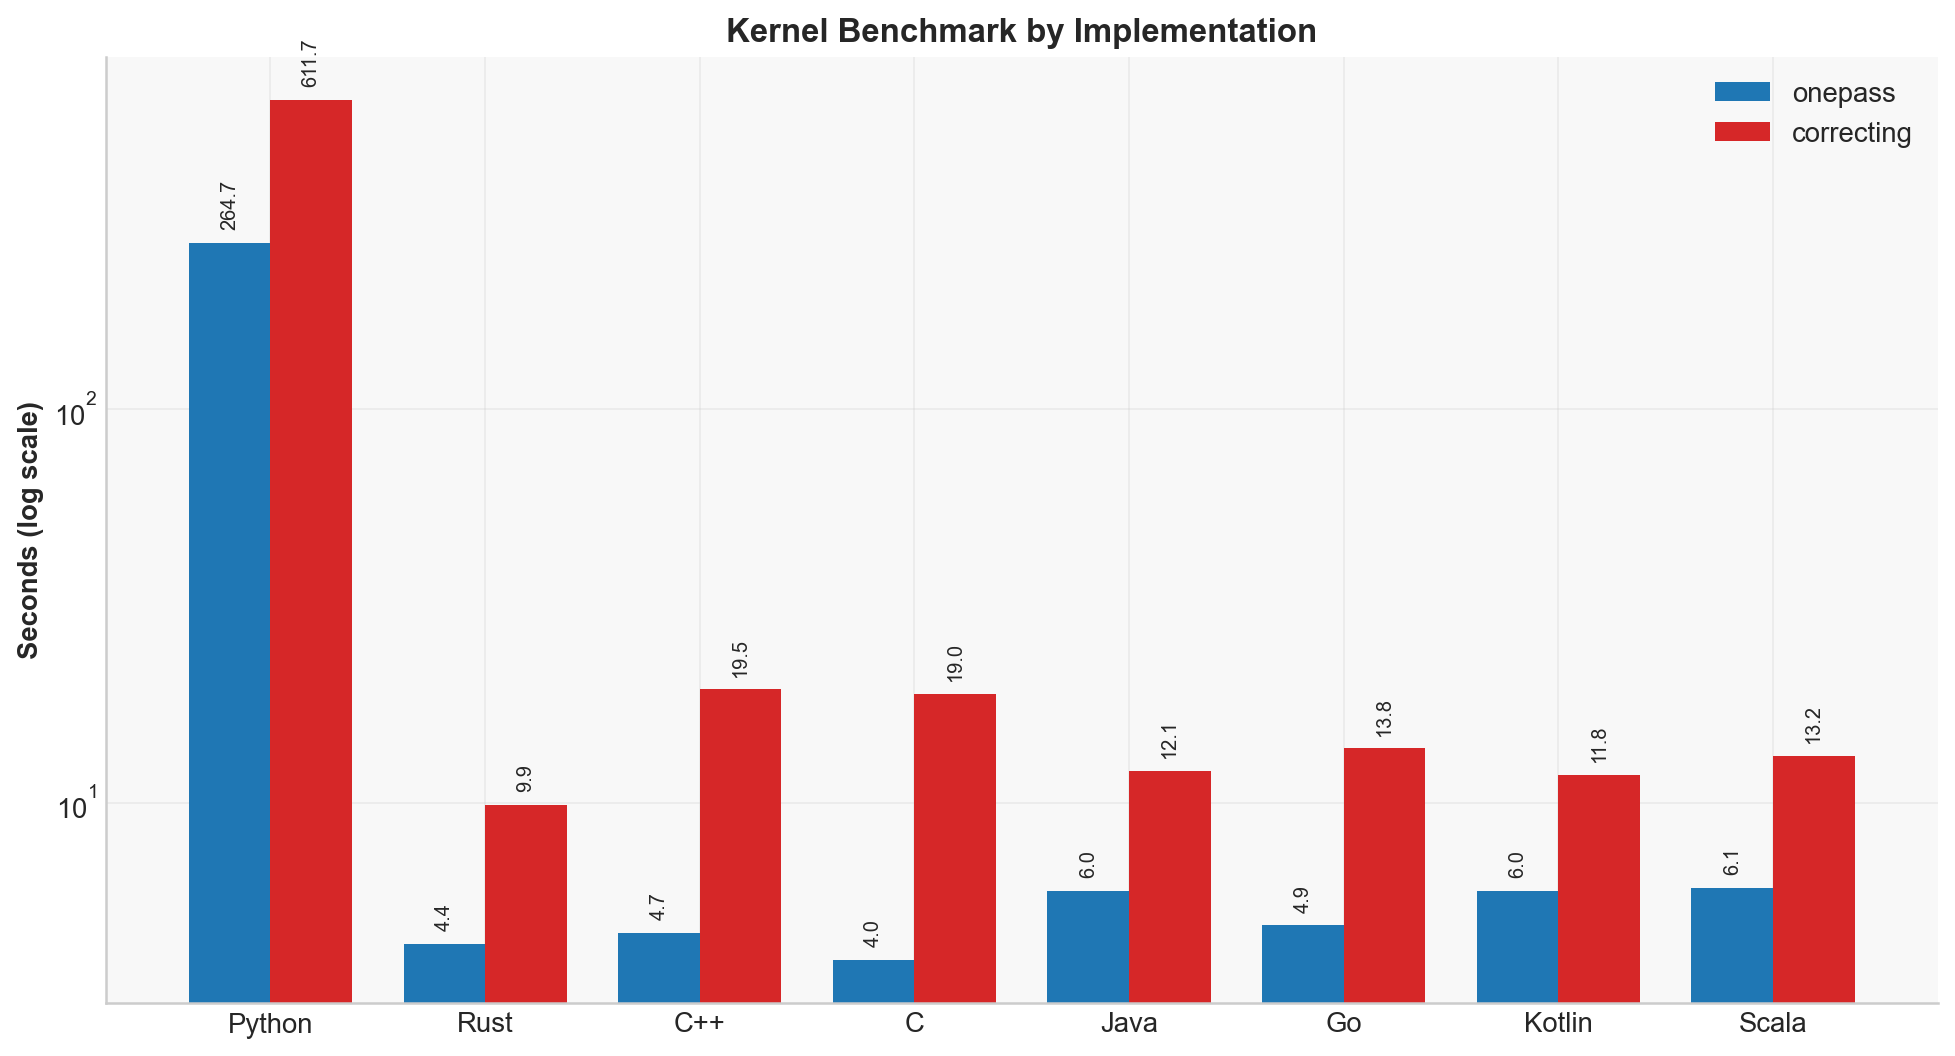
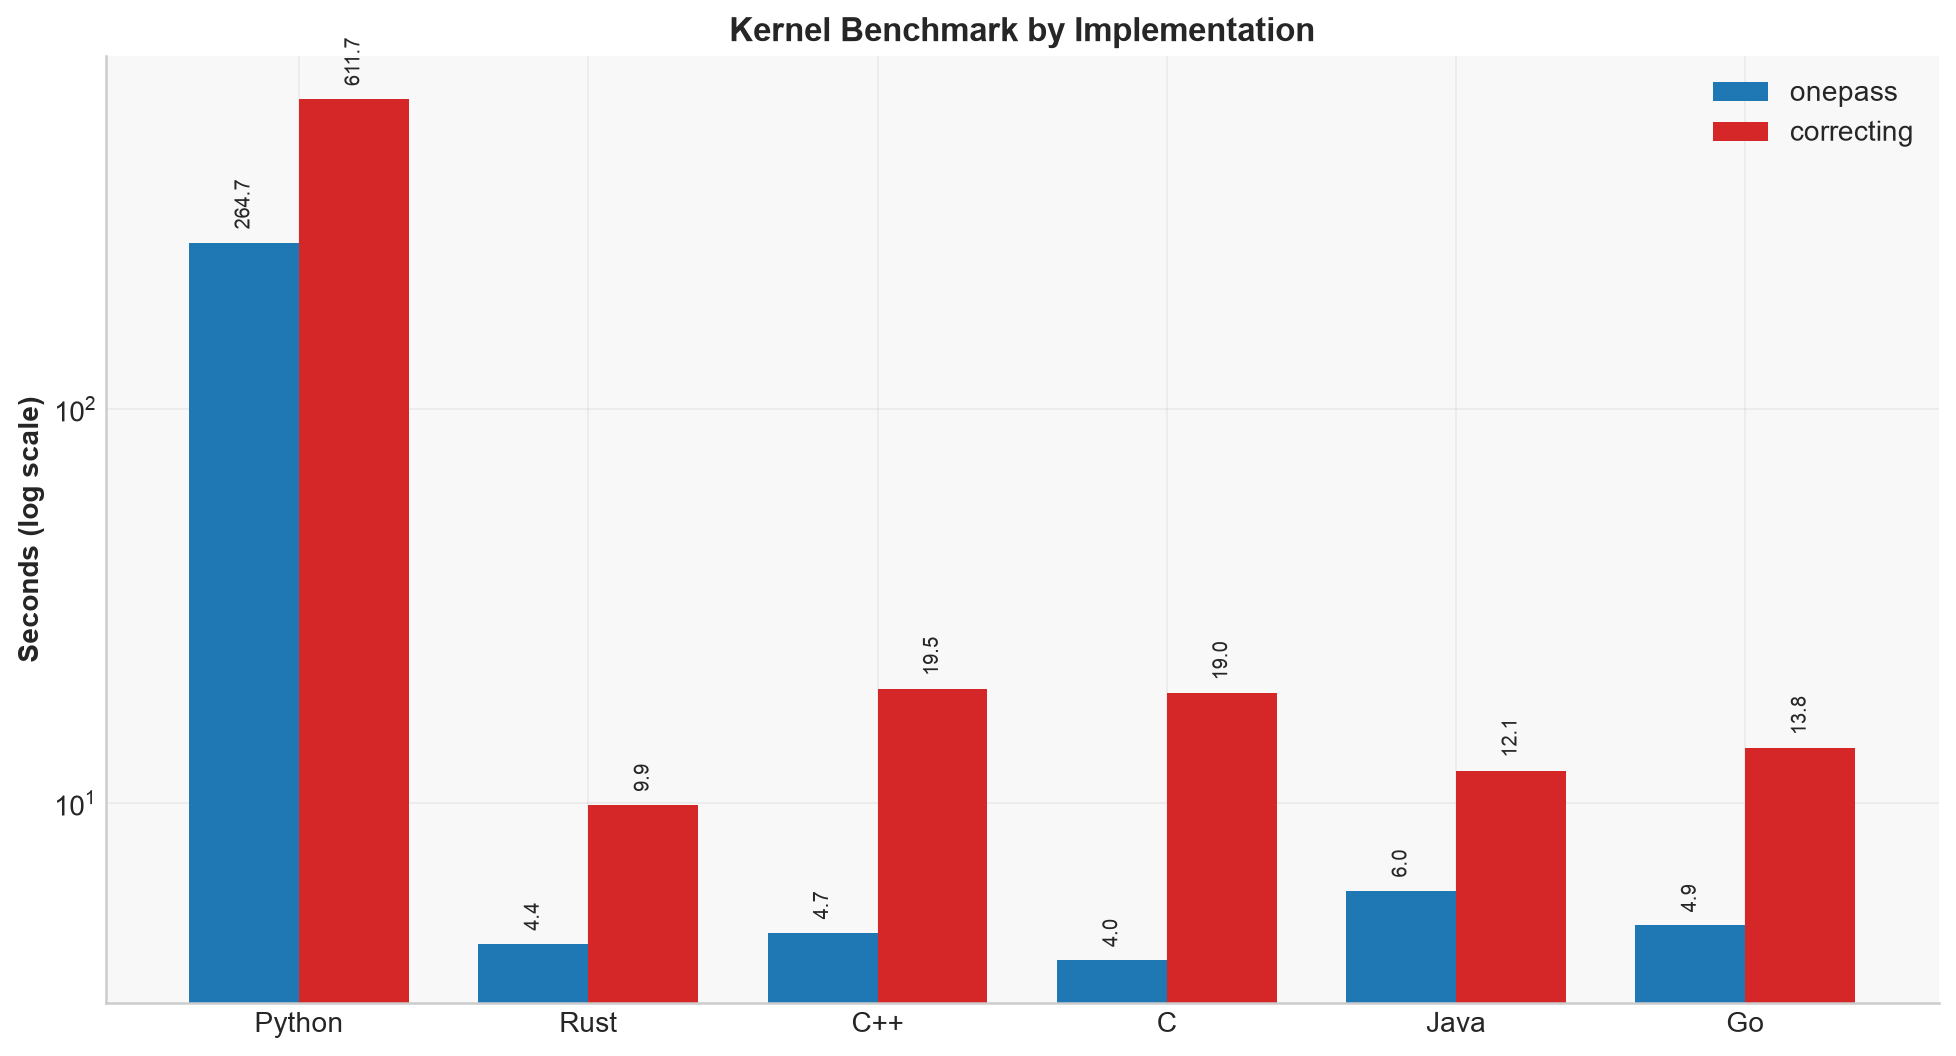
Benchmarks: remove Haskell, Kotlin and Scala
Those implementations are not part of the current version. Their rows
are removed from the tables and charts in ANALYSIS.md, with the note and
the section on Haskell's performance; the four radar charts and the
per-language plot are regenerated without them. The figures for the six
current implementations are unchanged.

diff --git a/assets/generate_analysis_radars.py b/assets/generate_analysis_radars.py
@@ -162,8 +162,8 @@ def main() -> None:
         "kernel-onepass-speed-radar.svg",
         "Onepass speed score (faster is larger, max=100) - linux-5.1 -> 5.1.1",
         "Kernel onepass speed score by language. Scores normalize encode time to the fastest implementation.",
-        ["C", "Rust", "C++", "Go", "Haskell", "Java", "Kotlin", "Scala"],
-        [("Speed score", "#0f766e", 0.22, [100.0, 88.9, 88.9, 81.6, 78.4, 66.7, 65.6, 64.5])],
+        ["C", "Rust", "C++", "Go", "Java"],
+        [("Speed score", "#0f766e", 0.22, [100.0, 88.9, 88.9, 81.6, 66.7])],
         100.0,
         [20, 40, 60, 80, 100],
     )
@@ -171,8 +171,8 @@ def main() -> None:
         "kernel-correcting-speed-radar.svg",
         "Correcting speed score (faster is larger, max=100) - linux-5.1 -> 5.1.1",
         "Kernel correcting speed score by language. Scores normalize encode time to the fastest implementation.",
-        ["Rust", "Java", "Scala", "Go", "Kotlin", "Haskell", "C", "C++"],
-        [("Speed score", "#8b5cf6", 0.22, [100.0, 80.5, 75.0, 70.2, 70.2, 56.6, 51.6, 51.0])],
+        ["Rust", "Java", "Go", "C", "C++"],
+        [("Speed score", "#8b5cf6", 0.22, [100.0, 80.5, 70.2, 51.6, 51.0])],
         100.0,
         [20, 40, 60, 80, 100],
     )
@@ -180,8 +180,8 @@ def main() -> None:
         "shakespeare-onepass-throughput-radar.svg",
         "Onepass throughput profile (MiB/s) - Shakespeare, Dyson M4, Pilot before f01eec4",
         "Onepass throughput by language for Shakespeare pilot-bench workload on Dyson M4.",
-        ["Rust", "Go", "C", "C++", "Java", "Haskell", "Kotlin", "Scala"],
-        [("Throughput", "#0f766e", 0.22, [49.33, 44.49, 34.19, 30.87, 25.35, 23.71, 21.93, 17.09])],
+        ["Rust", "Go", "C", "C++", "Java"],
+        [("Throughput", "#0f766e", 0.22, [49.33, 44.49, 34.19, 30.87, 25.35])],
         55.0,
         [11, 22, 33, 44, 55],
     )
@@ -189,8 +189,8 @@ def main() -> None:
         "shakespeare-correcting-throughput-radar.svg",
         "Correcting throughput profile (MiB/s) - Shakespeare, Dyson M4, Pilot before f01eec4",
         "Correcting throughput by language for Shakespeare pilot-bench workload on Dyson M4.",
-        ["Rust", "Go", "C", "C++", "Java", "Haskell", "Kotlin", "Scala"],
-        [("Throughput", "#2563eb", 0.22, [54.56, 37.12, 30.54, 29.09, 23.99, 23.11, 21.30, 16.00])],
+        ["Rust", "Go", "C", "C++", "Java"],
+        [("Throughput", "#2563eb", 0.22, [54.56, 37.12, 30.54, 29.09, 23.99])],
         60.0,
         [12, 24, 36, 48, 60],
     )

diff --git a/ANALYSIS.md b/ANALYSIS.md
@@ -364,17 +364,10 @@ see [BENCHMARKING.md](BENCHMARKING.md)).
 
 ## Performance benchmarks
 
-> **Historical note:** The Haskell, Kotlin, and Scala implementations were
-> part of the project when these benchmarks were recorded but have since
-> been removed from the active codebase.  The current project has six
-> implementations (Python, Rust, C++, C, Java, Go).
-> Historical data is retained here for reference; all other implementations
-> remain current.
-
 ### Kernel tarball benchmark (linux-5.1 → linux-5.1.1, 871 MB)
 
-Compiled implementations (including historical Haskell, Kotlin, and Scala),
-same input pair, default flags.  All produced byte-identical delta files.
+Compiled implementations, same input pair, default flags.  All produced
+byte-identical delta files.
 
 **onepass** (delta: 4.8 MB, ratio: 0.58%)
 
@@ -384,10 +377,7 @@ same input pair, default flags.  All produced byte-identical delta files.
 | Rust     | 4.5s | 5.7s |  6.4s |
 | C++      | 4.5s | 6.0s |  6.5s |
 | Go       | 4.9s | 7.0s |  7.7s |
-| Haskell  | 5.1s | 7.2s |  8.6s |
 | Java     | 6.0s | 8.9s | 10.6s |
-| Kotlin   | 6.1s | 8.9s | 10.6s |
-| Scala    | 6.2s | 9.0s | 10.7s |
 
 **correcting** (delta: 6.6 MB, ratio: 0.79%)
 
@@ -395,16 +385,11 @@ same input pair, default flags.  All produced byte-identical delta files.
 |----------|----------:|----------------:|---------------:|
 | Rust     |  9.9s | 12.6s | 22.1s |
 | Java     | 12.3s | 16.3s | 30.8s |
-| Scala    | 13.2s | 17.7s | 35.1s |
 | Go       | 14.1s | 18.1s | 35.9s |
-| Kotlin   | 14.1s | 15.6s | 32.9s |
-| Haskell  | 17.5s | 21.8s | 41.1s |
 | C        | 19.2s | 25.0s | 27.8s |
 | C++      | 19.4s | 25.5s | 26.9s |
 
-C leads on onepass; Rust dominates correcting by ~20%.  Historical Haskell
-(STUArray hot paths with reduced heap churn) overtook the entire JVM group on
-onepass.  C and C++ are slower than Java on correcting; the hash table
+C leads on onepass; Rust dominates correcting by ~20%.  C and C++ are slower than Java on correcting; the hash table
 implementation has not been tuned as aggressively as in Rust.  These
 are single-run measurements; use `bench_all.sh` for statistically rigorous CI.
 Radar views below are committed SVG charts generated by
@@ -414,9 +399,9 @@ Radar views below are committed SVG charts generated by
 ```mermaid
 xychart-beta
     title "Per-language onepass encode time (s) — linux-5.1→5.1.1, Dyson M4"
-    x-axis ["C", "Rust", "C++", "Go", "Haskell", "Java", "Kotlin", "Scala"]
+    x-axis ["C", "Rust", "C++", "Go", "Java"]
     y-axis "seconds" 0 --> 22
-    bar [4.0, 4.5, 4.5, 4.9, 5.1, 6.0, 6.1, 6.2]
+    bar [4.0, 4.5, 4.5, 4.9, 6.0]
 ```
 
 ![Onepass speed score radar chart](assets/kernel-onepass-speed-radar.svg)
@@ -424,38 +409,12 @@ xychart-beta
 ```mermaid
 xychart-beta
     title "Per-language correcting encode time (s) — linux-5.1→5.1.1, Dyson M4"
-    x-axis ["Rust", "Java", "Scala", "Go", "Kotlin", "Haskell", "C", "C++"]
+    x-axis ["Rust", "Java", "Go", "C", "C++"]
     y-axis "seconds" 0 --> 22
-    bar [9.9, 12.3, 13.2, 14.1, 14.1, 17.5, 19.2, 19.4]
+    bar [9.9, 12.3, 14.1, 19.2, 19.4]
 ```
 
 ![Correcting speed score radar chart](assets/kernel-correcting-speed-radar.svg)
-
-### Historical: Haskell performance — purity at the API, mutability in hot loops
-
-The Haskell implementation is pure at the public API boundary and does
-not use C wrappers/FFI, but a purely persistent internal design was
-too slow for the kernel workload.  The main bottlenecks were:
-
-- `IntMap`-based seed tables in onepass/correcting ($O(\log n)$ plus heavy allocation).
-- `Integer` allocations in the rolling-hash modular multiply path.
-- Quadratic overlap checks in early CRWI graph construction.
-
-To close the gap, the implementation now uses scoped local mutability
-in hot loops (`STUArray`/unboxed arrays) while preserving deterministic,
-byte-compatible output:
-
-- Direct-addressed mutable slot tables for onepass and correcting.
-- `Word64` Mersenne reduction for $2^{61} - 1$ (no per-multiply `Integer` heap traffic).
-- Interval-sweep CRWI edge construction ($O(n \log n + E)$).
-
-Measured on linux-5.1 → linux-5.1.1 on Dyson (M4):
-Rust = 4.5s onepass / 9.9s correcting, Haskell = 5.1s onepass /
-17.5s correcting.  Earlier purely persistent versions were over 100s
-on correcting for the same pair, so local mutability was the primary
-performance lever.  The onepass improvement from 6.2s to 5.1s (−18%)
-came from eliminating per-iteration heap allocation in the seed-table
-inner loop.
 
 ### Throughput with confidence intervals (pilot-bench, Shakespeare)
 
@@ -479,9 +438,6 @@ including process start-up). The CI width columns are the full width of the
   Cortex-X925 core, Java and Go to the ten Cortex-X925 cores. Raw output and
   toolchains are in [bench/2026-09-28-baase](bench/2026-09-28-baase/README.md).
 
-Haskell, Kotlin, and Scala rows are historical (implementations no longer
-in active codebase), so they have no Cortex-X925 figures.
-
 **onepass**
 
 | Language | M4 (Dyson) | CI width (95%) | M1 Max (Wigner) | i5-8259U (DMZ) | Cortex-X925 (baase) | CI width (95%) |
@@ -491,9 +447,6 @@ in active codebase), so they have no Cortex-X925 figures.
 | C | 34.19 | 2.18 | 25.17 | 15.23 | 26.49 | 0.1313 |
 | C++ | 30.87 | 2.21 | 23.47 | 15.14 | 27.61 | 0.2038 |
 | Java | 25.35 | 0.93 | 18.33 | 10.39 | 19.16 | 0.6099 |
-| Haskell | 23.71 | 0.79 | 14.09 | 7.96 | — | — |
-| Kotlin | 21.93 | 1.04 | 16.34 | 8.10 | — | — |
-| Scala | 17.09 | 0.56 | 12.89 | 6.70 | — | — |
 
 **correcting**
 
@@ -504,14 +457,10 @@ in active codebase), so they have no Cortex-X925 figures.
 | C | 30.54 | 0.55 | 21.28 | 15.92 | 38.49 | 0.3049 |
 | C++ | 29.09 | 0.87 | 20.66 | 13.81 | 36.44 | 0.06968 |
 | Java | 23.99 | 0.46 | 18.47 | 9.80 | 21.08 | 0.6303 |
-| Haskell | 23.11 | 0.40 | 18.38 | 8.42 | — | — |
-| Kotlin | 21.30 | 0.48 | 16.43 | 8.68 | — | — |
-| Scala | 16.00 | 0.30 | 12.00 | 6.34 | — | — |
 
 On the small Shakespeare workload (5.4 MB, no I/O bottleneck), the ranking
 on the M4 shifts vs. the 871 MB kernel tarball: Rust leads by a wide margin
-and Go sits second.  Historical Haskell, Kotlin, and Scala rows are included
-for reference.  The M4 and M1 Max deliver similar throughput (Rust within
+and Go sits second.  The M4 and M1 Max deliver similar throughput (Rust within
 ~15%, others within ~20%); the i5-8259U is 2.5–3× slower on native code but
 the JVM gap narrows to ~2×.
 
@@ -529,14 +478,14 @@ not attributable to the machine alone.
 
 ![Correcting throughput by machine, radar chart](assets/shakespeare-correcting-multimachine-radar.svg)
 
-The charts below are the M4 alone, with the historical languages.
+The charts below are the M4 alone.
 
 ```mermaid
 xychart-beta
     title "Onepass throughput (MiB/s) — Shakespeare, Dyson M4, Pilot before f01eec4"
-    x-axis ["Rust", "Go", "C", "C++", "Java", "Haskell", "Kotlin", "Scala"]
+    x-axis ["Rust", "Go", "C", "C++", "Java"]
     y-axis "MiB/s" 0 --> 55
-    bar [49.33, 44.49, 34.19, 30.87, 25.35, 23.71, 21.93, 17.09]
+    bar [49.33, 44.49, 34.19, 30.87, 25.35]
 ```
 
 ![Onepass throughput radar chart](assets/shakespeare-onepass-throughput-radar.svg)
@@ -544,9 +493,9 @@ xychart-beta
 ```mermaid
 xychart-beta
     title "Correcting throughput (MiB/s) — Shakespeare, Dyson M4, Pilot before f01eec4"
-    x-axis ["Rust", "Go", "C", "C++", "Java", "Haskell", "Kotlin", "Scala"]
+    x-axis ["Rust", "Go", "C", "C++", "Java"]
     y-axis "MiB/s" 0 --> 60
-    bar [54.56, 37.12, 30.54, 29.09, 23.99, 23.11, 21.30, 16.00]
+    bar [54.56, 37.12, 30.54, 29.09, 23.99]
 ```
 
 ![Correcting throughput radar chart](assets/shakespeare-correcting-throughput-radar.svg)
@@ -587,8 +536,7 @@ measurements, not of the two machines alone.
 
 The kernel tarball benchmark (linux-5.1.0 → 5.1.1, 871 MB each, single run)
 was run on wigner with data on the internal Apple SSD (`/tmp`) and on the
-QNAP RAID-5 HDD array (`/Volumes/Archive`).  Historical Kotlin and Scala rows
-are retained for reference.
+QNAP RAID-5 HDD array (`/Volumes/Archive`).
 
 **onepass**
 
@@ -599,8 +547,6 @@ are retained for reference.
 | C |  5.4s |  5.6s |
 | Java |  8.9s |  9.2s |
 | Go |  6.9s |  6.9s |
-| Kotlin _(historical)_ |  8.9s |  9.1s |
-| Scala _(historical)_ |  9.0s |  9.1s |
 
 **correcting**
 
@@ -611,8 +557,6 @@ are retained for reference.
 | C | 25.0s | 25.2s |
 | Java | 16.3s | 16.4s |
 | Go | 18.1s | 18.5s |
-| Kotlin _(historical)_ | 15.4s | 15.7s |
-| Scala _(historical)_ | 17.6s | 18.1s |
 
 All languages agree within ~5% between SSD and HDD.
 
